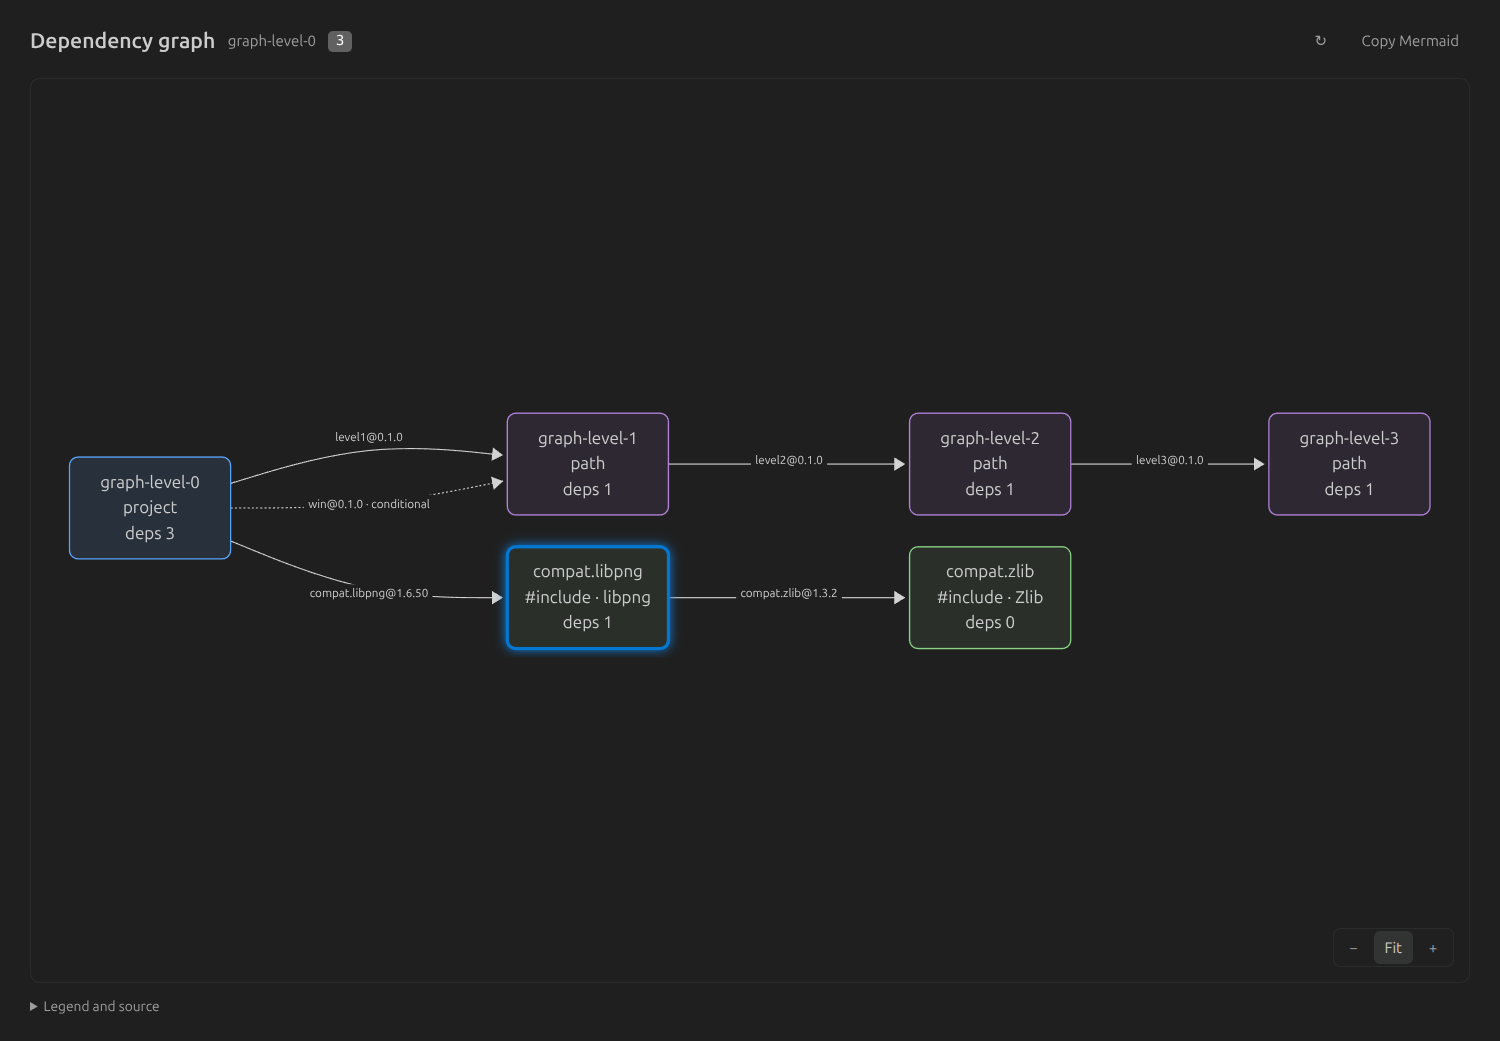
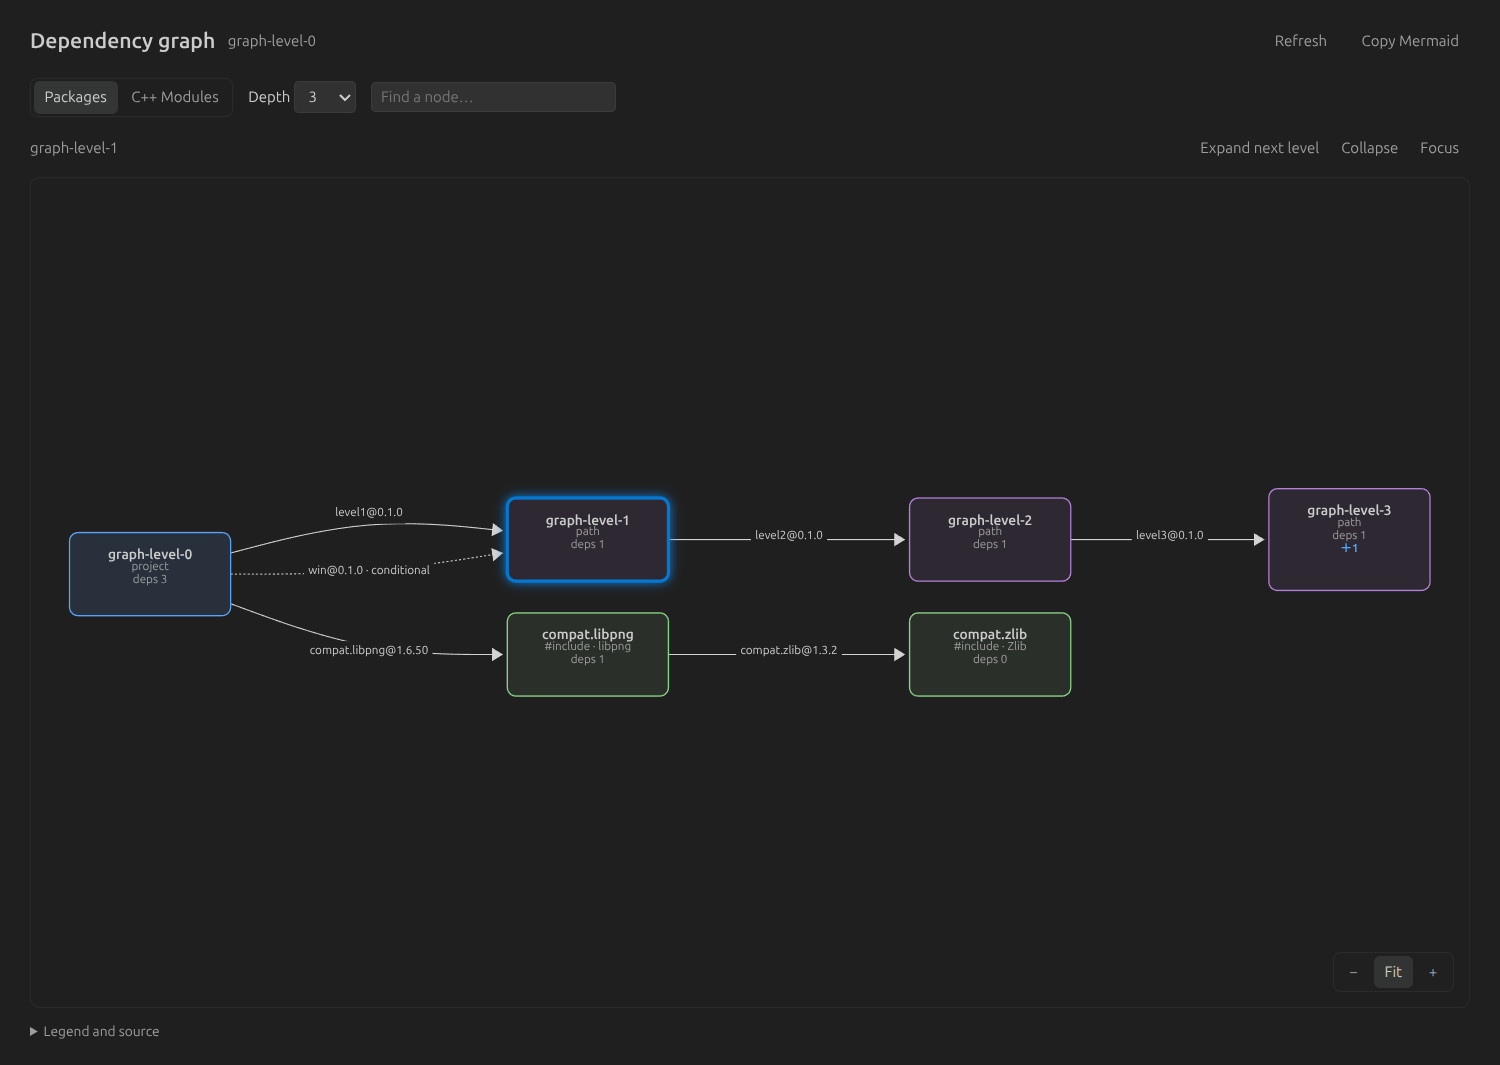
docs: capture shared module graph design and local verification

diff --git a/.agnets/docs/2026-10-18-libraries-ux-optimisation-plan.md b/.agnets/docs/2026-10-18-libraries-ux-optimisation-plan.md
@@ -287,3 +287,40 @@ mcpp add compat.argparse@3.2                   [复制]
 - 连线上完整显示 `namespace.package@version`；节点内显示名称、少量使用方式/许可证或 path 标签及 deps 数量。项目蓝、path 紫、索引绿、缺失元数据橙，保留虚线与文字以避免仅依赖颜色。被定位节点以明显轮廓高亮。
 
 - 依赖图支持以鼠标位置为中心的滚轮缩放、按住鼠标拖动画布；保留节点点击高亮，拖动不会误触节点。提供 Fit 复位和 `+` / `-` / `0` 键盘操作。真实 UI 校验缩放锚点、双轴平移及复位。
+
+## 14. C++ Modules 图与公共图画布（本轮实施设计）
+
+### 14.1 数据与范围
+
+- 基本信息新增独立的「C++ Modules Deps」入口；同一个依赖图面板通过 Packages / C++ Modules 切换，两类视图分别保存缩放、平移、展开和选中状态。现有 mcppls 图命令保留兼容。
+- 模块关系只消费 `mcppls query module --graph --root <root> --format json` 的结构化结果，不重新扫描或正则解析 C++。全图含 `modules{name,files,external}`、`imports{from,to}`、`snapshot` 和 `truncated`；单模块查询可补充单位角色、分区与导入者。
+- 使用依赖扩展随包携带的 mcppls，缺失时再查 PATH。命令有超时与输出上限，仅在受信任工作区执行；失败显示可重试空态，不回退为自建 C++ 扫描器。
+- 内部归属依据源码对应的项目边界，而非仅依赖 `external`：项目内嵌 path 包、指向外部包的路径均视为外部。本项目内部保留完整关系；从任意内部节点直接导入的外部模块保留一层，外部模块的出边不展示。未使用的标准库节点不混入图。
+- 实现单元的普通 `module M` 归属及声明角色以 mcppls 查询结果为准。全图没有的精确声明行/逐边 export-import 标记不猜测；首次提供准确文件跳转，后续可从服务接口补位置。
+
+### 14.2 入口、关系与只读导航
+
+- 节点以模块名为主，显示少量角色标签、相对源码文件及 imports 数；普通非模块导入文件也有节点，因此 `main.cpp → app` 可见。
+- manifest 的 `[targets.*].main`、`[lib].path` 优先标记入口；缺省遵守 `src/main.cpp`、`src/<包尾名>.cppm` 规则，仅在真实存在的图文件上标记。多个声明入口保留名称，库入口与模块卡片合一，不制造重复入口节点。
+- import 边方向为使用者 → 提供者；模块卡片的 `export module` 标签表达声明，文件名表达提供位置。项目内部蓝色，分区紫色，外部绿色，未知来源灰色；不以颜色作为唯一依据。
+- 单击节点高亮，并在旁边编辑器打开只读源码，保留画布；多个提供文件先选择。源码通过公共只读虚拟文档服务打开，不能修改原文件；没有源码时保持节点可选并说明原因。拖动绝不触发文件打开。
+
+### 14.3 折叠、定位与性能
+
+- “本项目内部不限深度”指数据范围完整，首屏默认展开 3 层。提供 3 / 5 / 全部；全部仍受预算限制。外部始终仅一层，不随深度选择扩张。
+- 边界节点显示可操作的隐藏数量，按分支展开下一层/收起。循环和共享节点用稳定身份去重；收起一支不能移除其他可见分支仍需的节点。独立或循环分量也保留入口，不因无入度根而消失。
+- 可见子图在 Mermaid 布局前计算，不能通过 CSS 隐藏节点冒充折叠。每帧最多 150 节点、300 边（含折叠占位）；达到预算保留展开提示，允许聚焦该节点，避免强行缩成不可读大图。
+- 搜索覆盖完整内部数据及一层外部节点；选中隐藏结果进入聚焦视图，显示导入者与被导入者，并可返回项目全景。折叠或展开保留视角，Fit 显式复位。
+- 公共层分为 GraphModel、可见子图策略、Mermaid 渲染与 GraphPanel；复用主题、鼠标锚点缩放、拖动、Fit、键盘、高亮、复制与消息校验。两种 provider 负责各自语义，不把模块关系当成包关系。
+
+### 14.4 验收
+
+- 真实 mcppls JSON 验证 main → 模块、lib.path/默认入口、分区、内部深链及内部任意深度导入外部；path 包即使 external=false 也必须停在外部一层。
+- 验证 3/5/全部、逐支展开/收起、循环/共享节点、独立模块、隐藏节点搜索聚焦、150/300 双预算及 truncated 提示。
+- 在真实 VS Code 验证只读源码、画布保留、拖动不误打开、视图切换状态恢复和原包图回归；用深链、宽扇出和共享密集三类数据测量子图策略与 Mermaid 布局耗时，再决定预算是否需要下调。
+
+### 14.5 最新侧栏布局调整（覆盖前文同级关系）
+
+- Basics 内保留项目身份、工具链、C++ Modules Deps 和语言服务块。
+- Dependencies 从 Basics 移出，作为 Basics 后面的第 2 个顶层分组，默认折叠；Common commands 随后排列。直接依赖条目的坐标、来源与点击定位保持不变。没有直接依赖时继续省略空分组。
+- 初始展开状态为默认值，尊重 VS Code 已保存的用户展开/折叠状态。

diff --git a/docs/libraries.md b/docs/libraries.md
@@ -31,14 +31,15 @@ beside the example heading. Custom indexes only use their own tests. Packages wi
 keep an explicit empty state. Platform versions, build information and source
 diagnostics can be expanded without leaving the page.
 
-In **Project → Basics → Dependencies**, use the graph icon to open the nearest
-three dependency levels as Mermaid. The palette command is **mcpp: Show Project
+In **Project → Dependencies**, use the graph icon to open a Mermaid view,
+initially expanded to three dependency levels. The palette command is **mcpp: Show Project
 Dependency Graph**. Relations come from project/local-path manifests and local
 index descriptors; lockfiles supply versions rather than parent edges. This is a
 declaration graph, so conditional or descriptor-level relations may differ from a
 resolved build. Missing local metadata is marked with a dashed node. The page
-supports zoom, refresh, opening the manifest and copying Mermaid source, and caps
-large graphs at 120 nodes or 240 edges.
+supports zoom, refresh, opening the manifest and copying Mermaid source. The
+package provider retains its 120-node/240-edge data limit; the shared canvas also
+bounds every layout before rendering.
 
 The dependency list shows direct `namespace.package@version` declarations and
 distinguishes index, path and git sources. Click a row to open the graph focused
@@ -57,3 +58,26 @@ checkout. The legacy official path is supported, while the xlings tool catalog
 is not automatically substituted for mcpp-index.
 
 The dependency graph supports cursor-centered wheel zoom and click-and-drag panning. Use Fit to restore the complete graph; keyboard `+`, `-`, and `0` provide zoom and reset.
+
+The project sidebar keeps **C++ Modules Deps** inside **Basics**, followed by a
+separate, initially collapsed **Dependencies** section containing direct packages.
+The graph panel switches between **Packages** and **C++ Modules**, preserving each
+view's selection and viewport.
+
+Module relationships come from the installed C++ Modules language server's
+`mcppls query module --graph --format json` output. No C++ source parser is added.
+Internal relationships can be explored at any depth; external modules, including
+local path packages, stop after one outgoing hop from the project. Entry cards
+identify explicit target main files, `[lib].path`, or existing default entry files.
+Click a module to open its provider source read-only beside the graph.
+
+The initial depth is 3; choose 5 or All, or activate a card's `＋N` control to
+expand one branch. Collapse keeps shared nodes reached by other branches. Search
+also finds hidden nodes and opens a focused neighborhood with direct importers;
+Back to project restores the overview. Each Mermaid layout is limited to 150
+nodes and 300 edges, computed before rendering. All respects these budgets.
+The mcppls CLI currently limits its full graph response to 500 module records;
+truncated or still-indexing results carry a compact incomplete-data notice.
+Use Refresh after source edits or indexing completes. Precise declaration lines
+and per-import re-export flags are not supplied by this graph endpoint, so this
+view opens the source file and does not invent those details.

diff --git a/.agents/docs/architecture.md b/.agents/docs/architecture.md
@@ -89,6 +89,15 @@ extension.ts                 VS Code 装配层：激活、命令注册、provide
 本地真实 UI 验证入口：`tools/test-libraries-ui.mjs`；专用 profile 和产物均在 gitignored 的 `.dev-profile/`。
 
 - `library/examples.ts`：官方安装版索引未携带测试时，读取带来源提交的内置测试快照；checkout 的本地测试优先，自定义索引不使用此兜底。完整代码通过只读 `mcpp-example` 文档打开。
-- `projects/dependencyGraph.ts`：纯声明图遍历，最多三跳，处理路径包、共享节点和循环；lock 只补版本。`dependencyGraphPanel.ts` 负责只读文件编排和本地 Mermaid Webview。Mermaid 固定版本与许可证由编译脚本复制至 `dist/vendor`，无需 CDN。
+- `projects/dependencyGraph.ts`：纯声明图遍历，默认三跳（公共画布可请求更深数据），处理路径包、共享节点和循环；lock 只补版本。`dependencyGraphPanel.ts` 负责只读文件编排和本地 Mermaid Webview。Mermaid 固定版本与许可证由编译脚本复制至 `dist/vendor`，无需 CDN。
 
 - `views/models.ts` 与 Libraries 共用直接声明解析，树节点携带项目、依赖和分组身份；点击进入声明图并居中高亮对应节点。Webview 使用 SVG 平移/缩放变换，滚轮保留鼠标锚点，Pointer Events 区分点击与拖动；Fit 可恢复完整图。
+
+## 8. Shared dependency canvas and C++ Modules graph
+
+- `graphs/model.ts` defines a provider-independent graph, component roots, depth/branch projection, 150-node/300-edge layout budgets and escaped Mermaid output. Complete module data is retained independently of the visible subgraph.
+- `projects/dependencyGraphPanel.ts` owns one persistent Webview with separate per-project/per-kind graph and navigation states. `graphs/panelHtml.ts` and `media/graph.js` share rendering, wheel/pointer navigation, folding, focus, search and theme handling. Layouts are serialized; obsolete provider requests are discarded.
+- `cli/moduleGraph.ts` is a trust-gated, time/output-bounded consumer of mcppls CLI JSON. This extends the integration boundary with structured queries, without taking over C++ parsing, resolution, LSP ownership or mcppls settings. Prefer the installed dependency extension's payload, with PATH fallback when absent.
+- `projects/moduleGraph.ts` validates the result, reads manifest entry conventions and determines file ownership by the nearest project manifest. Preserve all internal edges and just the first hop into another package; `external=false` alone cannot identify project ownership. Generated sources outside the project boundary are conservatively treated as external.
+- `webview/readOnlyDocuments.ts` is the shared content-addressed virtual-document store used by examples and graph navigation; graph messages contain node identities, and the host opens only provider files attached to those identities.
+- Basics contains C++ Modules Deps; declared package Dependencies follow as a collapsed sibling before Common commands. Existing language-server module-graph forwarding commands remain compatible.

diff --git a/CHANGELOG.md b/CHANGELOG.md
@@ -1,5 +1,7 @@
 ## Unreleased
 
+- Add C++ Modules Deps backed by mcppls JSON, with entry/source cards, one-hop external boundaries and read-only source navigation. Share the package graph canvas with depth/branch folding, hidden-node search, focused views and 150-node/300-edge layout budgets. Move direct Dependencies after Basics as a collapsed sibling.
+
 - Example code uses a uniform background and compact heading actions; local and bundled example sources both open read-only. Direct dependency rows now resolve namespaces correctly, show package coordinates and sources, and focus the selected node in the simplified colored graph.
 - Usage pages restore real index test examples even when the installed index omits tests, using a pinned offline snapshot with full read-only source access. Focused search shows a single clear button.
 - Project dependencies offer a Mermaid graph of the nearest three levels, based on manifests and local index metadata, with refresh, zoom and Mermaid copy controls.

diff --git a/.agents/docs/mcppls-integration.md b/.agents/docs/mcppls-integration.md
@@ -178,3 +178,13 @@ mcppls 侧发生以下任一变化时，本文件与 `src/languageServer.ts` 必
 - 平台矩阵变化；
 - 出现新的公开刷新/状态命令；
 - 服务器 `executeCommandProvider` 列表变化（影响 §3 的命名约束）。
+
+## 结构化模块图查询（2026-10-19）
+
+项目的共享依赖画布另通过依赖扩展随附的 mcppls CLI 调用
+`query module --graph --root <root> --timeout 20 --format json`。这与原有
+`mcppls.showModuleGraph` UI 转发入口并存，不解析那个命令生成的 Markdown。
+`modules{name,files,external}` / `imports{from,to}` / `snapshot` / `truncated`
+在消费边界校验，非零退出或不兼容结果可刷新重试。仅受信任工作区调用，宿主
+30 秒超时、8 MiB 输出限制；全图接口自身当前最多返回 500 个模块并标明截断。
+本扩展负责图布局、项目边界过滤和只读文件导航，C++ 语法与语义仍完全归 mcppls。
